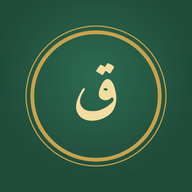
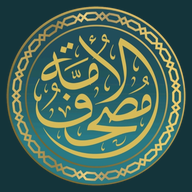
اسم التطبيق «مصحف الأمة» وشعاره: أيقونات التثبيت والرأس والشاشة الافتتاحية
Claude-Session: https://claude.ai/code/session_01EUs5QjoQyqBQG8Eb7XQ8YE

diff --git a/index.html b/index.html
@@ -5,13 +5,13 @@
 <meta name="viewport" content="width=device-width,initial-scale=1,viewport-fit=cover">
 <meta name="theme-color" content="#1f4a39">
 <link rel="manifest" href="manifest.json">
-<link rel="icon" type="image/png" sizes="192x192" href="icons/icon-192.png">
+<link rel="icon" type="image/png" sizes="64x64" href="icons/favicon-64.png">
 <link rel="apple-touch-icon" href="icons/apple-touch-icon.png">
 <meta name="apple-mobile-web-app-capable" content="yes">
 <meta name="mobile-web-app-capable" content="yes">
-<meta name="apple-mobile-web-app-title" content="مصحف القراءات">
+<meta name="apple-mobile-web-app-title" content="مصحف الأمة">
 <meta name="apple-mobile-web-app-status-bar-style" content="black-translucent">
-<title>مصحف القراءات</title>
+<title>مصحف الأمة</title>
 <meta name="description" content="استمع إلى المصحف الشريف بالروايات العشرين صفحةً صفحة، مع هوامش القراءات العشر.">
 <link rel="preconnect" href="https://fonts.googleapis.com">
 <link rel="preconnect" href="https://fonts.gstatic.com" crossorigin>
@@ -35,7 +35,7 @@ button{font-family:inherit;cursor:pointer;border:none;background:none;color:inhe
 /* top bar */
 .top{position:sticky;top:0;z-index:20;display:flex;align-items:center;gap:8px;padding:calc(env(safe-area-inset-top) + 8px) 12px 8px;
   background:var(--green);color:#fff;box-shadow:0 2px 10px rgba(0,0,0,.2)}
-.brand{font-weight:700;font-size:18px;white-space:nowrap}
+.brand{font-weight:700;font-size:18px;white-space:nowrap;line-height:1.25}
 .brand small{display:block;font-size:11px;font-weight:400;color:var(--gold2);margin-top:-3px}
 .top .sp{flex:1}
 .chip{display:flex;align-items:center;gap:6px;padding:6px 12px;border-radius:999px;background:rgba(255,255,255,.12);border:1px solid rgba(230,201,127,.5);
@@ -152,6 +152,8 @@ main{max-width:620px;margin:0 auto;padding:14px 12px 150px}
 .splash{position:fixed;inset:0;z-index:100;background:radial-gradient(circle at 50% 35%,#2c6650,#1f4a39 70%);display:grid;place-items:center;padding:22px;transition:opacity .6s ease}
 .splash.hide{opacity:0;pointer-events:none}
 .sp-card{width:min(420px,100%);border:2px solid var(--gold);outline:1px solid var(--gold);outline-offset:6px;border-radius:14px;padding:34px 22px 26px;text-align:center;color:#fff}
+.sp-logo{width:132px;height:132px;display:block;margin:-6px auto 2px;filter:drop-shadow(0 4px 14px rgba(0,0,0,.35))}
+.brand-logo{width:30px;height:30px;vertical-align:middle;margin-left:8px;float:right;margin-top:2px}
 .sp-orn{color:var(--gold2);font-size:22px;letter-spacing:6px}
 .sp-t1{font-size:26px;font-weight:700;color:var(--gold2);margin:12px 0 18px;line-height:1.5}
 .sp-lbl{font-size:15px;color:#e9dfc2;line-height:1.6}
@@ -165,7 +167,7 @@ main{max-width:620px;margin:0 auto;padding:14px 12px 150px}
 <body>
 <div class="splash" id="splash" role="dialog" aria-label="افتتاحية المصحف">
   <div class="sp-card">
-    <div class="sp-orn">۞ ۞ ۞</div>
+    <img class="sp-logo" src="icons/logo-240.png" alt="مصحف الأمة">
     <div class="sp-t1">الجمع الصوتي للقرآن الكريم</div>
     <div class="sp-lbl">بصوت فضيلة الشيخ</div>
     <div class="sp-name">أحمد عيسى المعصراوي</div>
@@ -180,7 +182,7 @@ function hide(){if(done)return;done=true;sp.classList.add('hide');setTimeout(()=
 sp.addEventListener('click',hide);setTimeout(hide,4000)})();</script>
 
 <header class="top">
-  <div class="brand">مصحف القراءات<small>الروايات العشرون</small></div>
+  <div class="brand"><img class="brand-logo" src="icons/favicon-64.png" alt="">مصحف الأمة<small>القراءات العشر · الروايات العشرون</small></div>
   <div class="sp"></div>
   <button class="chip" id="riwBtn" aria-label="اختيار الرواية"><span class="dot"></span><span id="riwName">اختر الرواية</span></button>
   <button class="icon-btn" id="goBtn" aria-label="الانتقال إلى صفحة"><svg viewBox="0 0 24 24"><path d="M3 5h18v2H3zm0 6h18v2H3zm0 6h12v2H3z"/></svg></button>
@@ -264,7 +266,7 @@ function renderMeta(){
   $('mSura').textContent='سورة '+sura;$('mJuz').textContent='الجزء '+AR(j)+' · صفحة '+AR(P);
   $('pno').textContent=AR(P);
   const n=N[String(P)];$('notes').hidden=!n;if(n)$('nbody').innerHTML=n;
-  document.title='صفحة '+AR(P)+' – سورة '+sura+(R?' – رواية '+R.name:'')+' | مصحف القراءات';
+  document.title='صفحة '+AR(P)+' – سورة '+sura+(R?' – رواية '+R.name:'')+' | مصحف الأمة';
 }
 function setPlayIcon(){$('playIco').innerHTML=aud.paused?ICON_PLAY:ICON_PAUSE;$('playBtn').setAttribute('aria-label',aud.paused?'تشغيل':'إيقاف')}
 
@@ -277,7 +279,7 @@ function loadAudio(play){
   if(aud.dataset.src!==url){aud.dataset.src=url;aud.src=url;aud.load()}
   if(play){aud.play().catch(()=>{setPlayIcon()})}
   if('mediaSession' in navigator){
-    navigator.mediaSession.metadata=new MediaMetadata({title:'صفحة '+P+' – سورة '+D.suras[D.pages[P-1][0]-1][2],artist:'رواية '+R.name,album:'مصحف القراءات'});
+    navigator.mediaSession.metadata=new MediaMetadata({title:'صفحة '+P+' – سورة '+D.suras[D.pages[P-1][0]-1][2],artist:'رواية '+R.name,album:'مصحف الأمة'});
   }
   // warm up next page image
   if(P<604){const i=new Image();i.src=imgUrl(P+1)}
